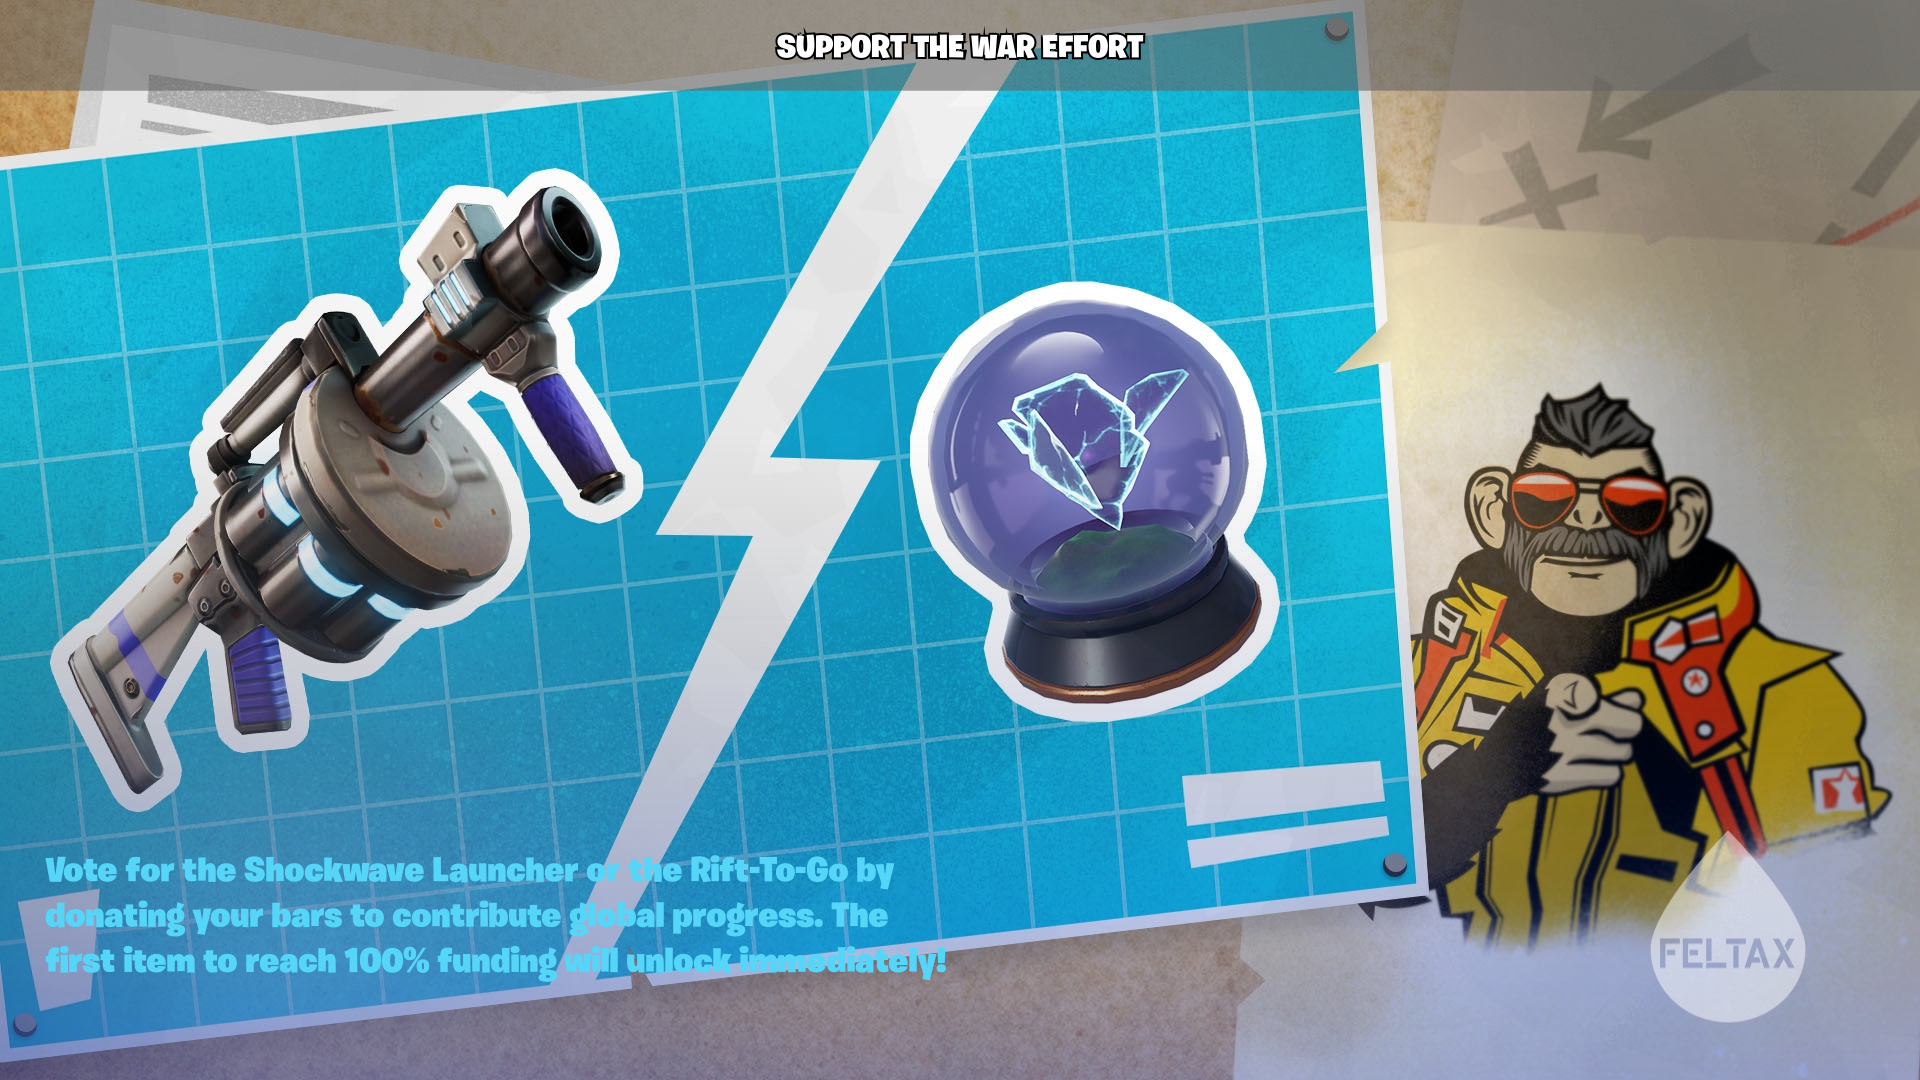
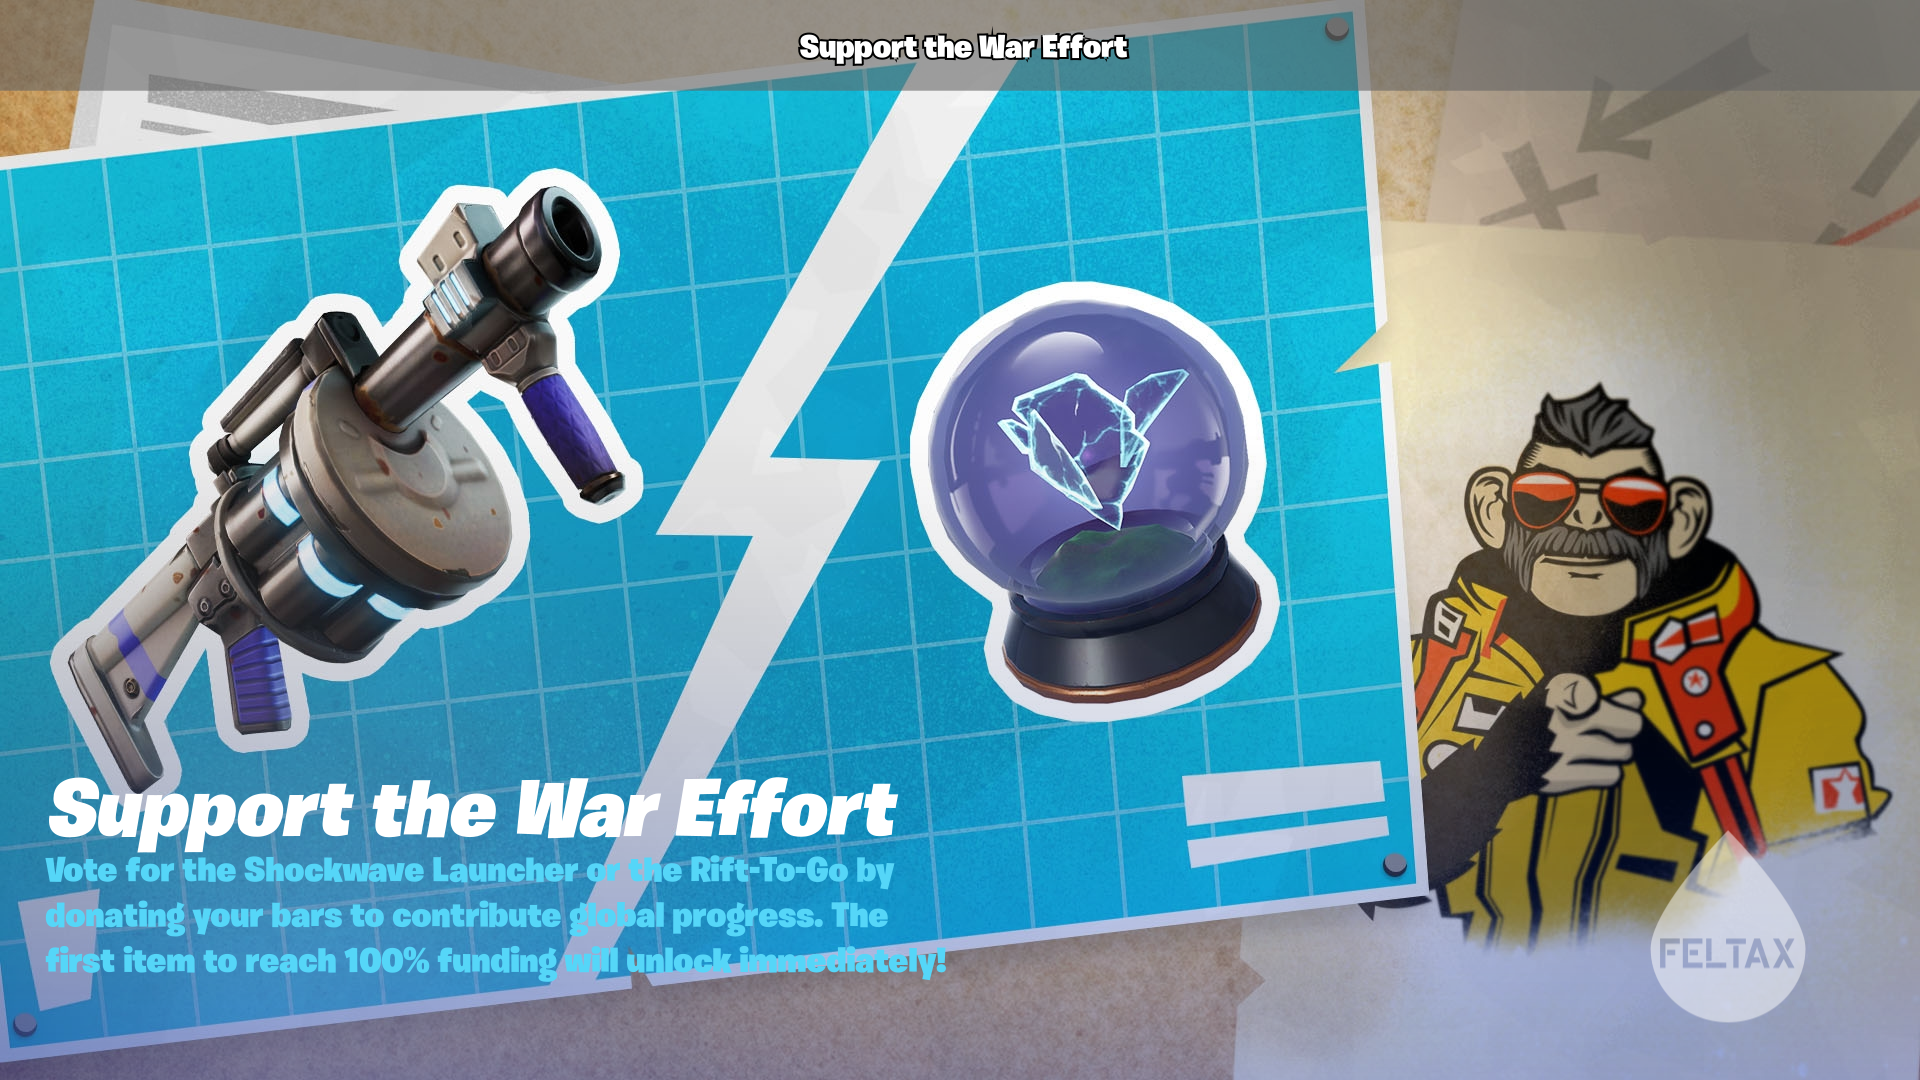
some changes

Changed region(s): [[0.0, 0.7028, 0.4688, 0.7944], [0.4062, 0.0306, 0.5938, 0.0611]]

diff --git a/src/command/news.js b/src/command/news.js
@@ -36,7 +36,7 @@ exports.run = async (client, message, args, FortniteAPIComClient, FortniteAPIIoC
     async function generateSplitNews(gameMode,lang){
         var deafultLang = 'en';
         var deafultGameMode = 'br';
-        const splitNews = []
+        const splitNews =  []
         var newsData = await axios.get(`https://fortnite-api.com/v2/news/${['br','creative'].includes(gameMode)?gameMode:deafultGameMode}?language=${['en','en','ru'].includes(lang)?lang:deafultLang}`);
         registerFont("BurbankBigRegularBlack.otf", {family: "Burbank Big Regular",style: "Black"});
         const baseWidth = 1920;
@@ -54,15 +54,15 @@ exports.run = async (client, message, args, FortniteAPIComClient, FortniteAPIIoC
             var tabHeight = (8.4/100)*baseHeight;
             ctx.fillStyle = 'rgba(100,100,100,0.6)';
             ctx.fillRect(0, 0, baseWidth, tabHeight);
-            //Title
-            var title = newsData.data.data.motds[i].title.toUpperCase();
-            var titleFontSize = (tabHeight/2.8).toFixed();
+            //Tab Title
+            var tabTitle = newsData.data.data.motds[i].tabTitle!==null?newsData.data.data.motds[i].tabTitle.toUpperCase():newsData.data.data.motds[i].title;
+            var tabTitleFontSize = (tabHeight/2.8).toFixed();
             ctx.fillStyle = '#FFFFFF';
             ctx.strokeStyle = '#000000';
             ctx.lineWidth = 4;
-            ctx.font = `${titleFontSize}px "Burbank Big Rg Bk"`;
-            ctx.strokeText(title, (baseWidth-ctx.measureText(title).width)/2, (tabHeight+ctx.measureText(title).emHeightAscent)/2);
-            ctx.fillText(title, (baseWidth-ctx.measureText(title).width)/2, (tabHeight+ctx.measureText(title).emHeightAscent)/2)
+            ctx.font = `${tabTitleFontSize}px "Burbank Big Rg Bk"`;
+            ctx.strokeText(tabTitle, (baseWidth-ctx.measureText(title).width)/2, (tabHeight+ctx.measureText(title).emHeightAscent)/2);
+            ctx.fillText(tabTitle, (baseWidth-ctx.measureText(title).width)/2, (tabHeight+ctx.measureText(title).emHeightAscent)/2)
             //Bottom Gradient
             var gradient = ctx.createLinearGradient(baseWidth/2, 0, baseWidth/2, baseHeight);
             gradient.addColorStop(0.4, 'rgba(0,0,0,0)');
@@ -91,19 +91,40 @@ exports.run = async (client, message, args, FortniteAPIComClient, FortniteAPIIoC
                 }
             }
             await drawBody(lines)
-        //Watermark
+            //Title
+            var title = newsData.data.data.motds[i].title;
+            var titleFontSize = (tabHeight/1.1).toFixed();
+            ctx.fillStyle = '#FFFFFF';
+            ctx.font = `italic ${titleFontSize}px "Burbank Big Rg Bk"`;
+            ctx.fillText(title, tabHeight/2, (90/100)*baseHeight-(tabHeight/2)*lines.length)
+            //Watermark
             ctx.globalAlpha = 0.5;
             var watermark = await loadImage('watermark.png');
-            ctx.drawImage(watermark, baseWidth-(15/100)*baseWidth, baseHeight-(13/100)*baseWidth, (10/100)*baseWidth, (10/100)*baseWidth);
-        //Other
+            ctx.drawImage(watermark, baseWidth-(14/100)*baseWidth, baseHeight-(13/100)*baseWidth, (10/100)*baseWidth, (10/100)*baseWidth);
+            //Other
             console.log(`Rendered "${title}" | ${newsData.data.data.motds[i].id} in ${(Date.now()-beforeFinish)/1000}s`)
             const attach = new Discord.MessageAttachment(canvas.toBuffer(), `${newsData.data.data.motds[i].id}.webp`)
             fs.writeFileSync(`${newsData.data.data.motds[i].id}.webp`, canvas.toBuffer());
-            splitNews.push(attach)
+            //Video Link
+            if(newsData.data.data.motds[i].videoId){
+                videoId=`https://cdn.fortnite-api.com/streams/${newsData.data.data.motds[i].videoId}/${deafultLang}.mp4`
+            }
+            splitNews.push({image: attach, title: newsData.data.data.motds[i].title, videoId: newsData.data.data.motds[i].videoId?`https://cdn.fortnite-api.com/streams/${newsData.data.data.motds[i].videoId}/${deafultLang}.mp4`:null})
         }
-        return splitNews;
+        return splitNews
     }
     await generateFullNews(args[0],args[1])
-    var splitImgs = await generateSplitNews(args[0],args[1])
-    splitImgs.map(img => message.channel.send({files: [img]}))
+    var splitNews = await generateSplitNews(args[0],args[1])
+    console.log(splitNews)
+    splitNews.map(n => {
+        const row = new Discord.MessageActionRow()
+        .addComponents(
+            new Discord.MessageButton()
+                .setLabel(n.title)
+                .setStyle('LINK')
+                .setEmoji(client.emojis.cache.get("890738286111371295"))
+                .setURL(n.videoId?n.videoId:'')
+        )
+        message.channel.send({files: [n.image],components: n.videoId?[row]:null})
+    })
 };
